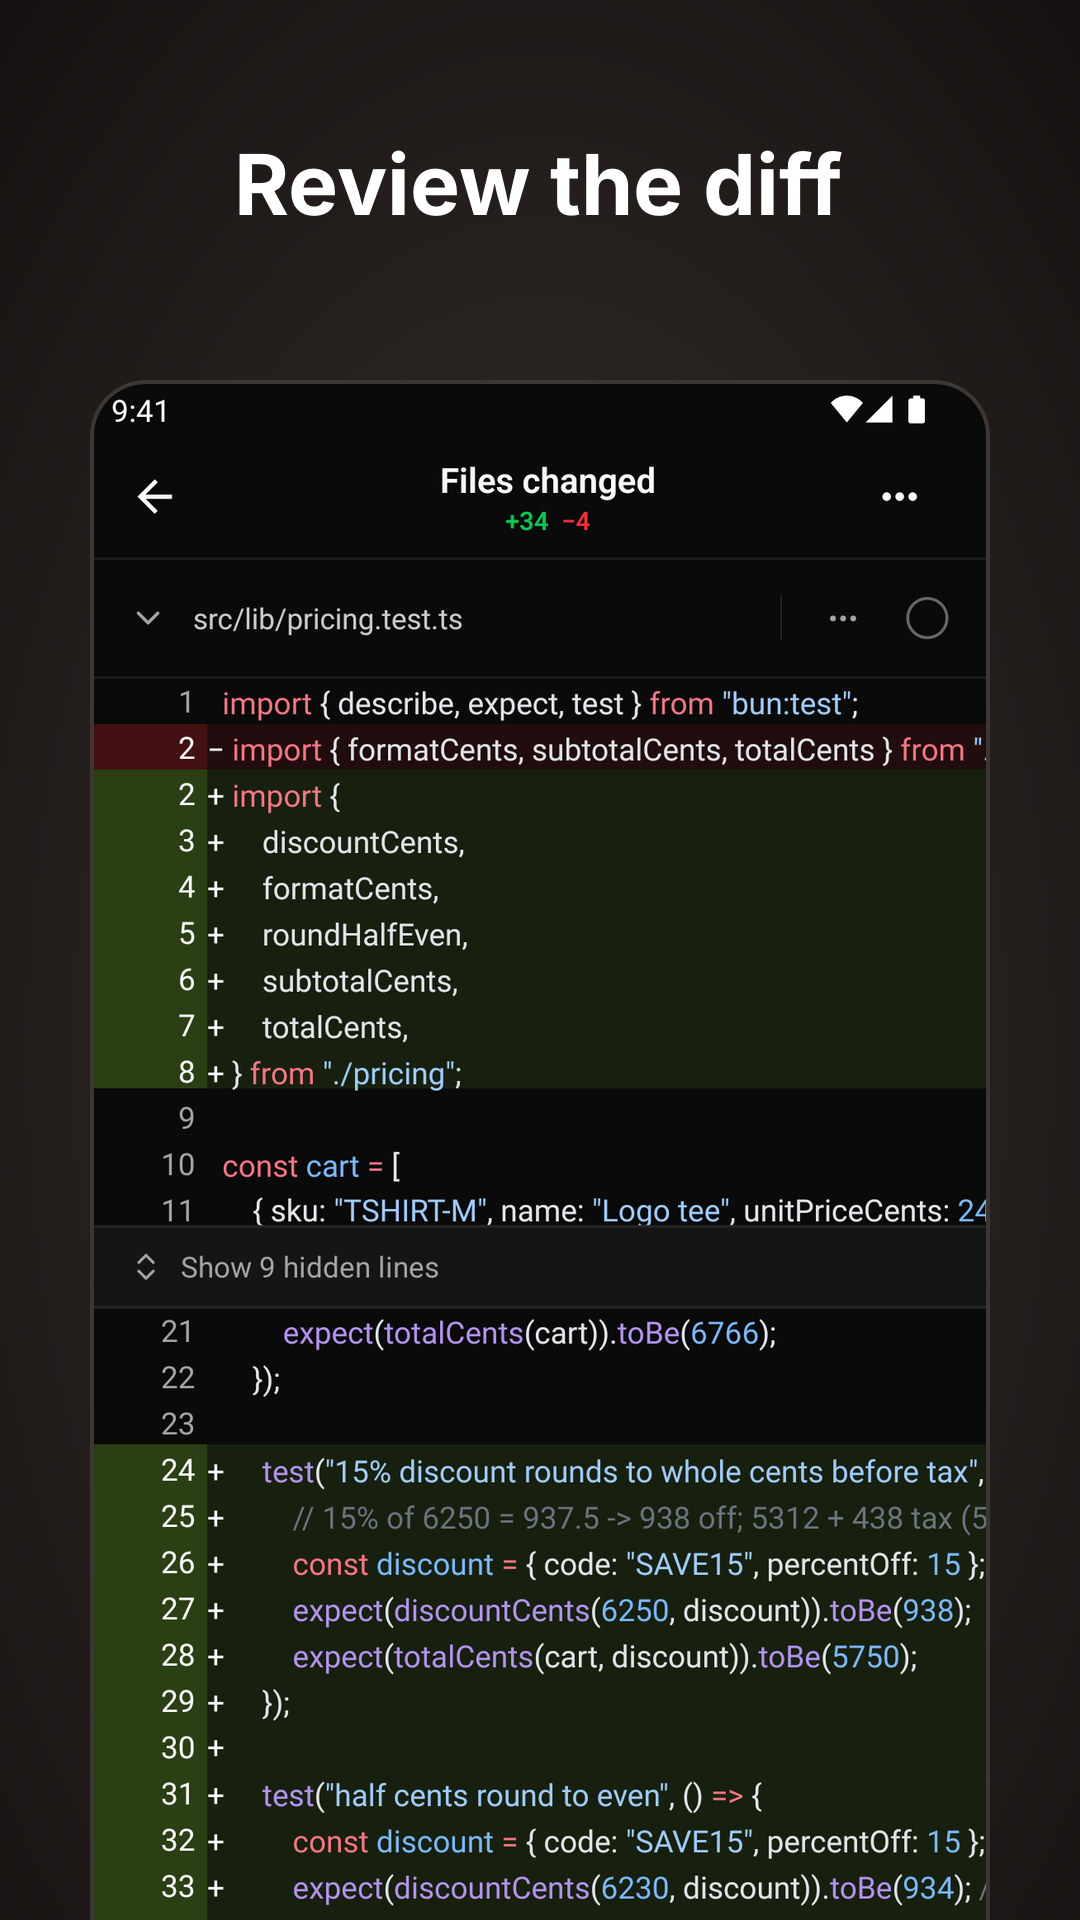
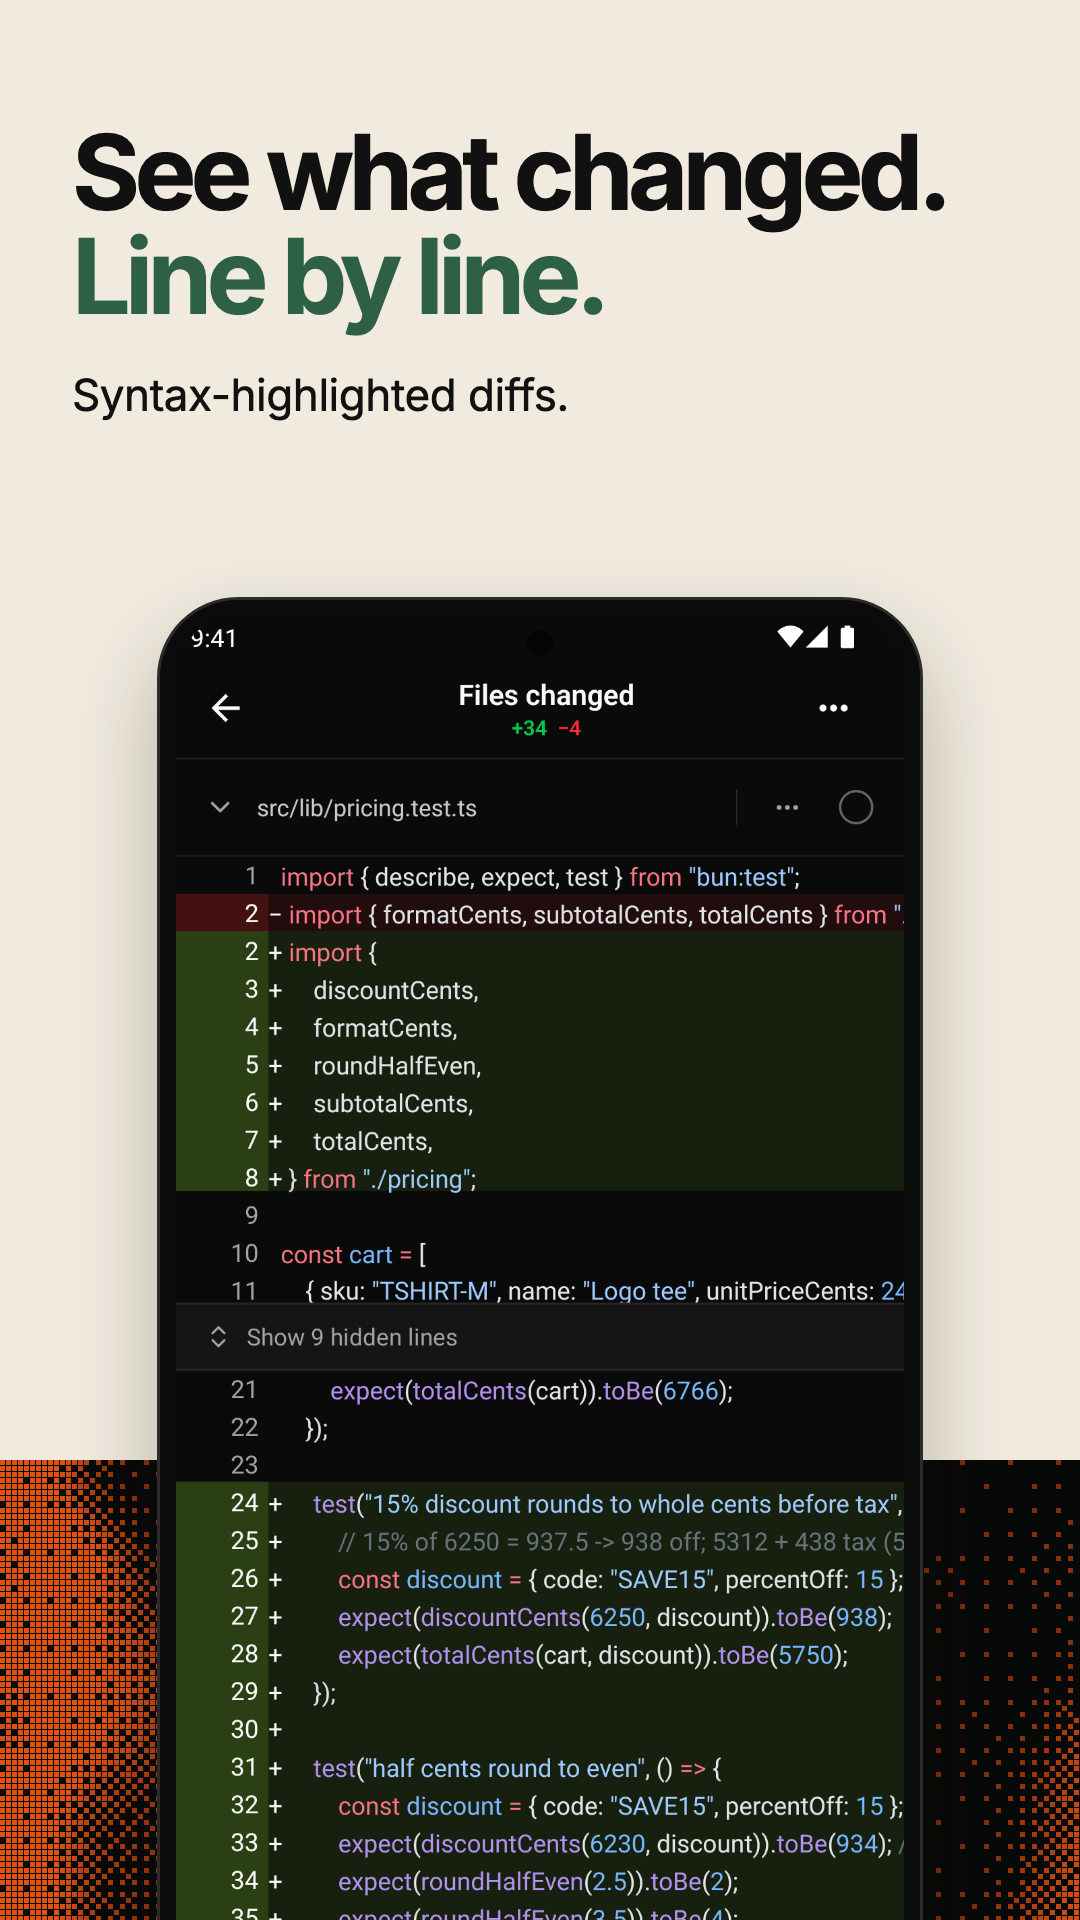
feat(mobile): match the Play screenshots to the App Store set
The six phone screenshots and the feature graphic now follow the App
Store set's design (paper, two-line headline, orange dither art), with
Android captures of the demo Acme org. They are rendered in the Graphics
repo (ParadevAI/graphics#6, src/store/), so the sharp script, its
devDependency and the raw captures leave this repo.

diff --git a/apps/mobile/plans/20261029-android-launch-checklist.md b/apps/mobile/plans/20261029-android-launch-checklist.md
@@ -75,10 +75,11 @@ The listing lives in `apps/mobile/play-store.config.js`. Its text comes from the
 `store.config.js`, and the icon and feature graphic are in `apps/mobile/store/android/`.
 `bun apps/mobile/scripts/play-listing.ts` checks it against Play's limits.
 
-- [x] **Phone screenshots and feature graphic**: six framed shots (2026-11-15) from a local Android
-      emulator with an "Acme" demo org and real agent sessions. Raw captures are in
-      `apps/mobile/store/captures/android/`; `bun apps/mobile/scripts/store-assets.ts` frames them into
-      `apps/mobile/store/android/phone/` and draws `feature-graphic.png`. Never capture a real account.
+- [x] **Phone screenshots and feature graphic**: six shots (2026-11-15) in the App Store set's style,
+      with Android captures from a local emulator ("Acme" demo org, real agent sessions). The source is
+      the Graphics repo (ParadevAI/graphics, `src/store/`, captures in `public/play-store/`):
+      `npm run render:play-store` writes them to `out/play-store/`; copy them to `apps/mobile/store/android/`.
+      Never capture a real account.
 - [ ] **Push text and images**:
       `PLAY_SERVICE_ACCOUNT_KEY=key.json bun apps/mobile/scripts/play-listing.ts --push`. Needs
       the service account above. The push code has not run against Play yet.
